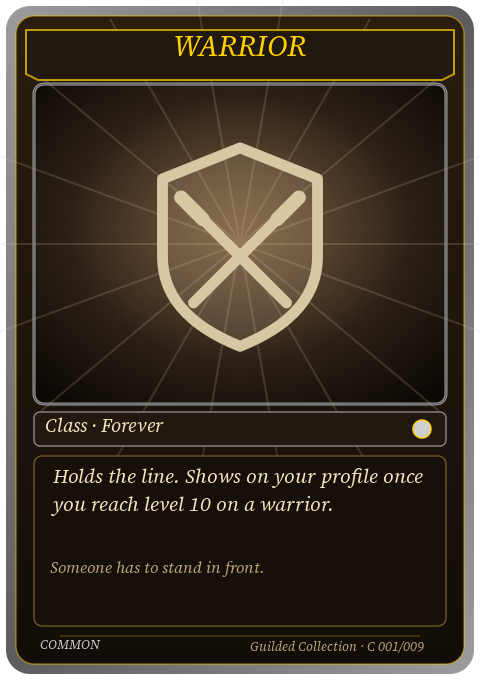
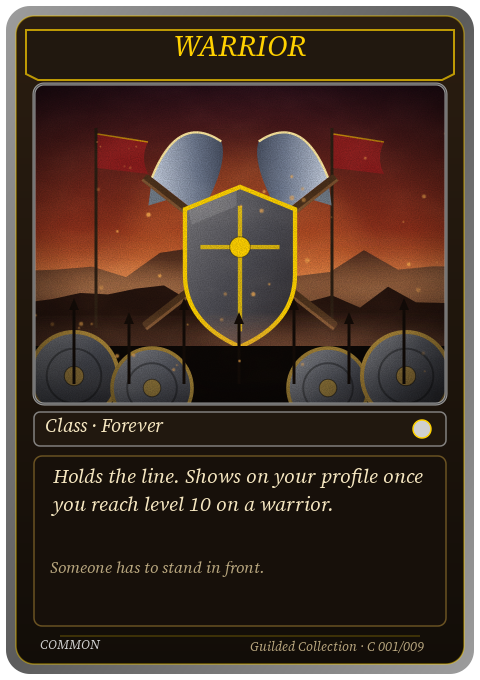
Docs: card art pass 2, illustrated scenes in style A (gold and stone)

diff --git a/docs/plans/APP_TCG_ART.md b/docs/plans/APP_TCG_ART.md
@@ -1,8 +1,8 @@
 # Guilded Collection: card art proposal (option 2 of `APP_TCG.md`)
 
-Status: **proposal for the owner to approve, 8 November 2026.** Nothing is built. Pick a direction (or ask for changes) before the pack build starts.
+Status: **owner picked style A, "Gold and stone", on 8 November 2026**, asking for richer, WoW Forever-inspired artwork. This is art pass 2 (illustrated scenes replace the first pass's simple emblems). Nothing is built in the app yet.
 
-All art here is original Guilded vector iconography in the guild's WoW gold theme (the same dark stone, parchment and bright-gold palette as `src/services/score-card.ts`). No Blizzard art, icons or screenshots. Class names are plain text. Regenerate the samples with `node docs/plans/app-tcg-art/make-samples.mjs`.
+All art here is original Guilded vector illustration in the guild's WoW gold theme (the same dark stone, parchment and bright-gold palette as `src/services/score-card.ts`). No Blizzard art, icons or screenshots. Class names are plain text. Regenerate the samples with `node docs/plans/app-tcg-art/make-samples.mjs`.
 
 ## The three sample cards
 
@@ -26,9 +26,15 @@ Rarity uses the colours WoW players already read as quality, so it feels native 
 
 Rules: colour is never the only signal (the footer also says the rarity in words and the gem shape grows with rarity), so it stays readable for colour-blind members. Rarer cards add ornament, not clutter: the art window and text positions never move.
 
-## Class cards: the art idea
+## Class cards: the art (pass 2)
 
-Each of the 9 classes is a bold, original emblem (shield and crossed blades, arcane star, sunburst cross, and so on) drawn as clean vector lines over a radial glow in the class tone. Three treatments per class (the plan's "9 x 3"): **plain emblem** (Common), **tinted glow** (Rare), **gilded emblem with sunburst rays** (Epic). It is cheap to draw, scales to any phone and reuses the same SVG approach as the badge glyphs in `achievement-badges.ts`. A later pass can swap in commissioned illustration without changing the frame.
+Each card now has a layered scene generated in code (SVG through sharp, `make-samples.mjs`), so it scales to any phone, stays in the repo and renders the same every time. Every scene is built from the same layers: a lit sky, distant ridges, fog bands, a silhouette with rim light, atmospheric particles (embers, stars, golden motes), a painterly noise overlay, a vignette and film grain.
+
+- **Warrior (Common)**: a setting sun over a battlefield ridge, red banners, crossed axes behind a gold-rimmed shield, a shield wall and spear tips in the foreground.
+- **Mage (Rare)**: a robed figure holding a glowing arcane orb with an orbiting rune ring, a crystal-tipped staff, a crescent moon and distant towers, framed by a stone tower window in the foreground.
+- **Paladin (Epic)**: an armoured figure with a crested helm, a gold cross breastplate and a raised warhammer in front of a radiant sunburst, with cape, purple clouds and a rune circle on the ground.
+
+Original only: shapes are drawn from scratch (no Blizzard logos, icons, screenshots, character likenesses or traced art), class names are plain text, and the look follows classic fantasy conventions rather than copying anyone's trade dress. Three treatments per class are kept from the plan (9 x 3): the Common scene is warm and muted, the Rare is cooler with glow, and the Epic is gilded with rays. The same pipeline draws the other six classes later; commissioned illustration can replace any scene without changing the frame.
 
 ## Card back and pack
 
@@ -36,14 +42,13 @@ Each of the 9 classes is a bold, original emblem (shield and crossed blades, arc
 | --- | --- |
 | ![Card back](app-tcg-art/card-back.png) | ![Pack](app-tcg-art/pack.png) |
 
-- **Card back**: gold-bordered dark stone, a sunburst ring and the Guilded shield with a check. One back for everyone; the set-completion cosmetics in the plan can unlock alternate backs later.
-- **Pack**: a crimped foil wrapper (zig-zag top and bottom) in bronze-to-dark gradient with the same shield, "Daily Pack, 5 cards". On open, the foil tears across the top, the cards fan out face down and flip one by one on tap with a "NEW" tag, as in the plan.
+- **Card back**: gold-bordered dark stone with a painted texture, a sunburst medallion ringed with runes, corner trim, drifting embers and the Guilded shield with a check. One back for everyone; the set-completion cosmetics in the plan can unlock alternate backs later.
+- **Pack**: a crimped foil wrapper (zig-zag top and bottom) in a bronze-to-dark gradient with a light sheen, the same rune medallion, "Daily Pack, 5 cards". On open, the foil tears across the top, the cards fan out face down and flip one by one on tap with a "NEW" tag, as in the plan.
 
-## What I need from the owner
+## Still open
 
-1. **Direction**: keep this gold-and-stone look as is, or ask for a variant (lighter parchment frames, a more ornate Legendary, a different card back).
-2. **Class emblems**: happy with abstract original emblems, or prefer commissioned illustration later (does not block the build).
-3. **Names and flavour lines** are placeholders; they are English now and will get French translations in the build.
+1. **Class emblems versus scenes for the other six classes**: the same scene approach is planned; say if any class should look different.
+2. **Names and flavour lines** are placeholders; they get French translations in the build.
 
 ## Next (after approval)
 
